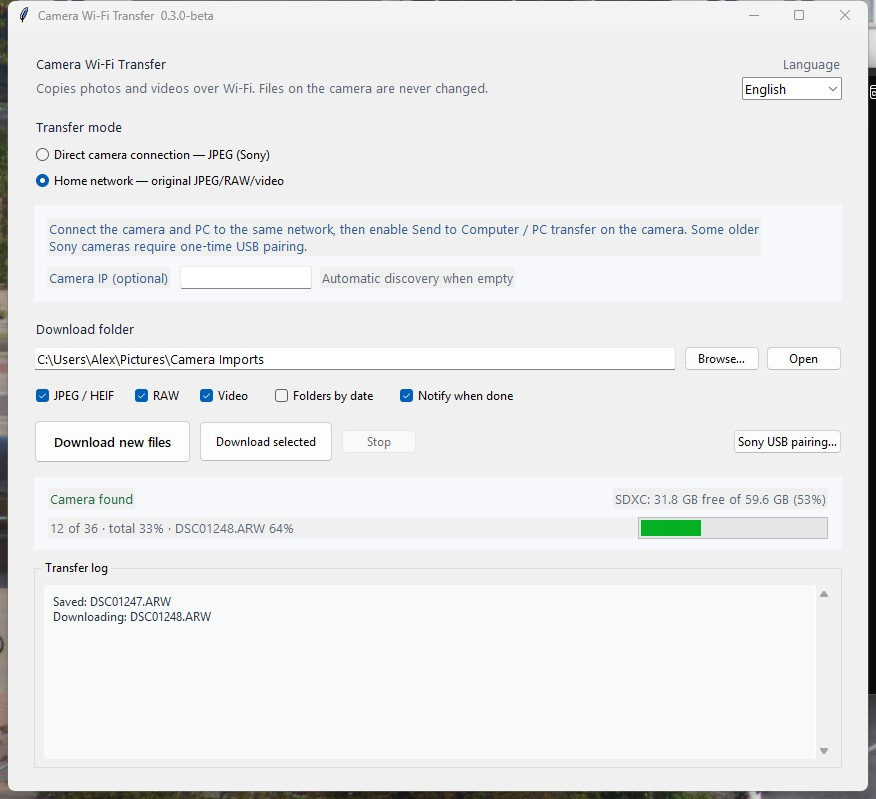
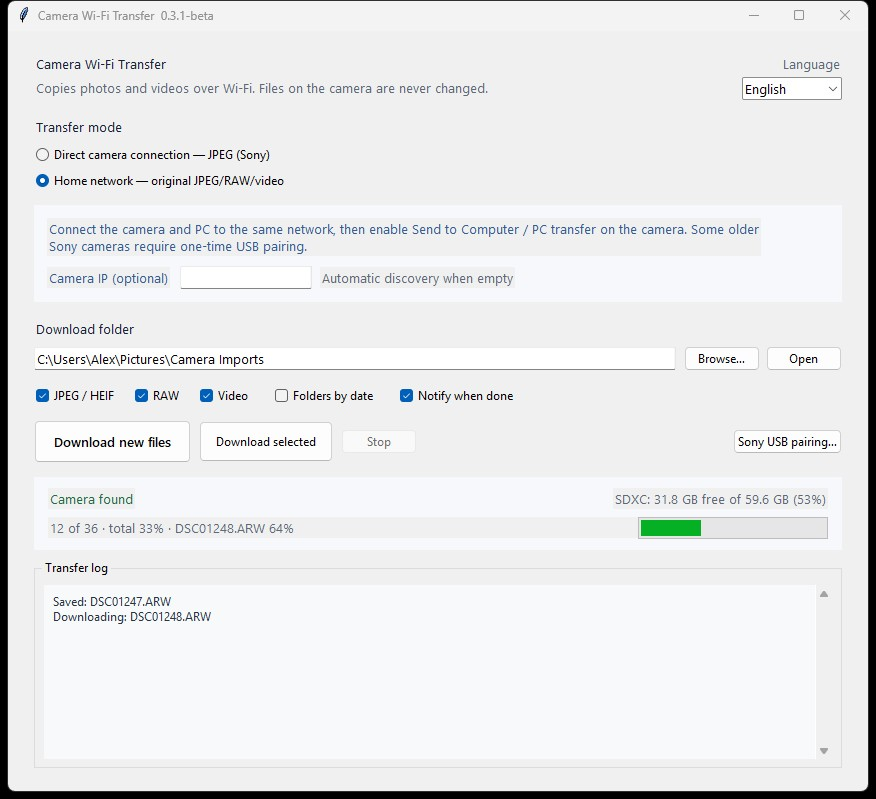
Fix Unicode backend events on Windows

Changed region(s): [[0.0, 0.0, 1.0, 1.0], [0.9863, 0.0, 1.0, 0.1202]]

diff --git a/backend_output.py b/backend_output.py
@@ -1,6 +1,7 @@
 from __future__ import annotations
 
 from dataclasses import dataclass
+import json
 import re
 
 
@@ -10,6 +11,22 @@ DOWNLOAD_RE = re.compile(r'^Downloading\s+"([^"]+)":\s*(\d{1,3})%\s*$')
 PROGRESS_RE = re.compile(r"^(\d{1,3})%$")
 LEGACY_JOINED_RE = re.compile(r'^Downloading\s+"([^"]+)":.*?(\d{1,3})%\s*$')
 GUI_EVENT_RE = re.compile(r"^CWFT\t([A-Z_]+)(?:\t(.*))?$")
+
+
+def decode_gui_field(value: str) -> str:
+    """Decode the ASCII-only JSON fields emitted by the bundled backend.
+
+    Plain fields remain supported for compatibility with 0.3.0-beta builds.
+    """
+
+    if value.startswith('"'):
+        try:
+            decoded = json.loads(value)
+            if isinstance(decoded, str):
+                return decoded
+        except (json.JSONDecodeError, TypeError):
+            pass
+    return value
 
 
 def clean_backend_text(value: str) -> str:
@@ -48,7 +65,7 @@ class BackendOutputParser:
         gui_event = GUI_EVENT_RE.fullmatch(line)
         if gui_event:
             kind = gui_event.group(1)
-            fields = (gui_event.group(2) or "").split("\t")
+            fields = [decode_gui_field(field) for field in (gui_event.group(2) or "").split("\t")]
             try:
                 if kind == "TOTAL" and fields:
                     return ParsedBackendLine(total=max(0, int(fields[0])))

diff --git a/vendor/airmtp/airmtp.py b/vendor/airmtp/airmtp.py
@@ -17,6 +17,7 @@ import six
 from six.moves import xrange
 from six.moves import cPickle as pickle
 import argparse
+import json
 import mtpwifi
 from mtpdef import *
 import strutil
@@ -597,7 +598,10 @@ def cwftGuiEvent(kind, *values):
 	"""Emit newline-delimited events for the Camera Wi-Fi Transfer GUI."""
 	if os.environ.get('CAMERA_WIFI_TRANSFER_GUI') != '1':
 		return
-	cleanValues = [str(value).replace('\t', ' ').replace('\r', ' ').replace('\n', ' ') for value in values]
+	# PyInstaller inherits a legacy Windows console encoding (often cp1251 or
+	# cp1252). JSON's ASCII escaping keeps volume labels and filenames safe even
+	# when they contain characters that encoding cannot represent.
+	cleanValues = [json.dumps(six.text_type(value), ensure_ascii=True) for value in values]
 	consoleWriteLine("\nCWFT\t{:s}{:s}\n".format(kind, ("\t" + "\t".join(cleanValues)) if cleanValues else ""))
 
 

diff --git a/tests/test_backend_output.py b/tests/test_backend_output.py
@@ -47,6 +47,18 @@ class BackendOutputTests(unittest.TestCase):
         self.assertFalse(done.item_skipped)
         self.assertEqual((storage.storage_total, storage.storage_free), (64000000000, 32000000000))
 
+    def test_json_escaped_unicode_fields(self) -> None:
+        parser = BackendOutputParser()
+        item = parser.parse(
+            'CWFT\tITEM\t"1"\t"2"\t"\\u0424\\u043e\\u0442\\u043e 01.ARW"\t"123"'
+        )
+        storage = parser.parse(
+            'CWFT\tSTORAGE\t"64000000000"\t"32000000000"\t"\\u041a\\u0430\\u0440\\u0442\\u0430 \\ud83d\\udcf7"'
+        )
+
+        self.assertEqual(item.filename, "Фото 01.ARW")
+        self.assertEqual(storage.storage_label, "Карта 📷")
+
     def test_legacy_joined_progress_is_collapsed(self) -> None:
         parser = BackendOutputParser()
         parsed = parser.parse('Downloading "DSC01152.ARW": 0% 1% 2% 99% 100%')

diff --git a/app.py b/app.py
@@ -25,7 +25,7 @@ from windows_pairing import PAIRING_CDB, PairingError, build_pairing_payload, pa
 
 
 APP_NAME = "Camera Wi-Fi Transfer"
-APP_VERSION = "0.3.0-beta"
+APP_VERSION = "0.3.1-beta"
 PAIRING_GUID = "0xa9fdb6005452ffff-0x3aa907283c52ffff"
 IMAGE_EXTENSIONS = ["JPG", "JPEG", "JPE", "HEIF", "HIF"]
 RAW_EXTENSIONS = [

diff --git a/README.md b/README.md
@@ -3,7 +3,7 @@
 [![Windows](https://img.shields.io/badge/Windows-10%20%7C%2011-0078D4?logo=windows)](https://github.com/dykomenko/camera-wifi-transfer/releases)
 [![Windows build](https://github.com/dykomenko/camera-wifi-transfer/actions/workflows/windows-build.yml/badge.svg)](https://github.com/dykomenko/camera-wifi-transfer/actions/workflows/windows-build.yml)
 [![GUI](https://img.shields.io/badge/interface-desktop%20GUI-2ea44f)](README.md)
-[![Tests](https://img.shields.io/badge/tests-24%20passing-2ea44f)](README.md)
+[![Tests](https://img.shields.io/badge/tests-25%20passing-2ea44f)](README.md)
 [![License: GPL v3](https://img.shields.io/badge/license-GPL--3.0-blue.svg)](LICENSE)
 
 [Русский](README_RU.md)

diff --git a/CHANGELOG.md b/CHANGELOG.md
@@ -1,5 +1,10 @@
 # Changelog
 
+## 0.3.1-beta — 2026-08-21
+
+- Fixed a Windows encoding crash when a card label or filename contains Unicode characters.
+- Structured backend events are now ASCII-safe JSON fields and remain backward compatible.
+
 ## 0.3.0-beta — 2026-08-21
 
 - Replaced console-style repeated percentages with structured GUI progress events.
